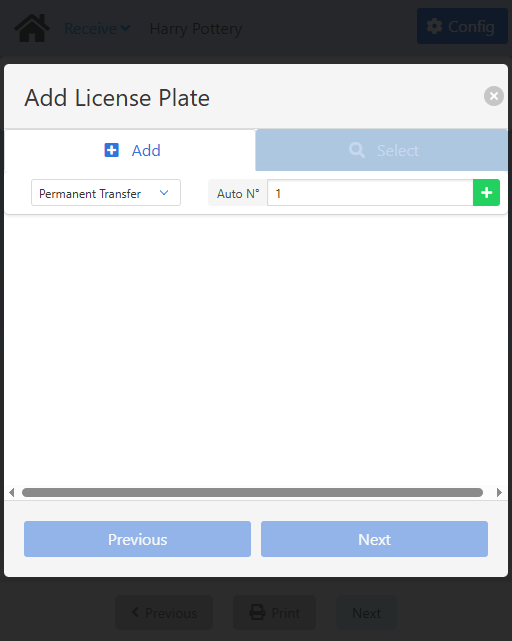
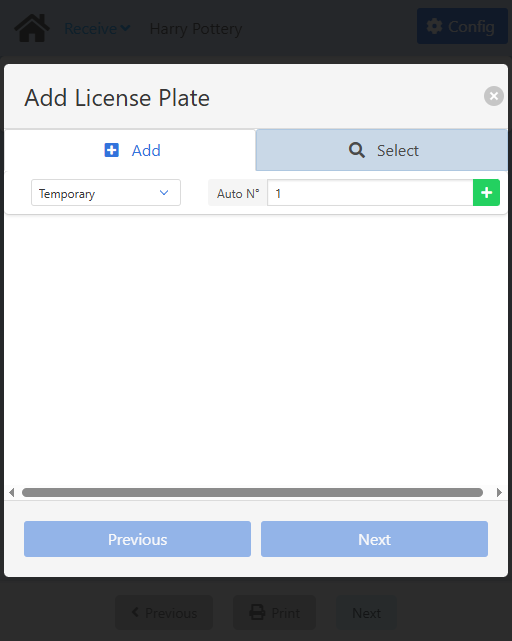
Update Receive with the requested changes on dev

Changed region(s): [[0.5, 0.1872, 1.0, 0.2808], [0.0625, 0.2808, 0.2812, 0.312]]

diff --git a/docs/apps/receive.md b/docs/apps/receive.md
@@ -426,7 +426,7 @@ The first thing you will see is the **Batch** tab, giving you information for th
 
 You can modify the fields on this tab, and that will be reflected once you are done.
 
-Set the **Batch Number**, the **LPN UOM** (number of containers that will be used for handling the items), the **Quantity** and you are good to go.
+Set the **Batch Number**, the **LPN UOM** (number of containers that will be used for handling the items, 1 by default), the **Quantity** and you are good to go.
 
 ![Batches: Extended Information search modal, with the Batch tab selected](./img-receive/batch_extended_information_batch.png)
 
@@ -458,6 +458,10 @@ On this modal you need to set the number of containers that will be used for tra
 
 ![UoM quantity modal](./img-receive/uom_quantity_modal.png)
 
+:::note[INFO]
+The default UoM is 1.
+:::
+
 Once you are done, click **Ok** to generate the grpo and to go to the [Choice: Assign to LPN](./receive.md#choice-assign-to-lpn) screen.
 
 </CustomDetails>
@@ -484,7 +488,7 @@ On this modal you can create LPNs.
 
 ![Add license plate modal](./img-receive/add_lp_add_modal.png)
 
-First you need to select the type of LPN you are going to create: **Permanent Transfer** (PF-XXXX), **Permanent Transport** (PP-XXXX), **Temporary** (T-XXXX) and **External** (E-XXXX).
+First you need to select the type of LPN you are going to create: **Permanent Transfer** (PF-XXXX), **Permanent Transport** (PP-XXXX), **Temporary** (T-XXXX. <u>This is the default</u>) and **External** (E-XXXX).
 
 Next, you need to set the **Auto N°** field to the number of LPNs you want to create. All LPNs are **auto-incremental**.
 
@@ -594,6 +598,10 @@ If you are working with a **batch-managed** item, click the <IIcon icon="pepicon
 
 If you are working with a **serial-managed** item, click the <IIcon icon="pepicons-pop:dots-x" width="17" height="17" /> button on any of the LPNs to go to the [LPN: Assign Serials](./receive.md#lpn-assign-serials) screen.
 
+If you are working with a **none-managed** item and you are using **only one** LPN, as soon as you enter this screen, you will get the printing modal. You can reference that modal at the bottom.
+
+If you are working with a **none-managed** item and you are using **multiple** LPNs, click the <IIcon icon="pepicons-pop:dots-x" width="17" height="17" /> button on any of the LPNs to go to the [LPN: Item Assignment](./receive.md#lpn-item-assignment) screen.
+
 Once you are done, click **Next** at the bottom to save the changes and open the **Label Printing** modal.
 
 <CustomDetails summary="Label Printing Modal">
@@ -675,9 +683,34 @@ At the top you will see the LPN you are working with.
 
 ![LPN: Assign Serials](./img-receive/lpn_assign_serials.png)
 
+<CustomDetails summary="Table Reference">
+  | Column | Description |
+  | --- | --- |
+  | Select | Action button for selecting a serial number. |
+  | Serial | ID of the serial number. |
+  | Item Code | ID of the item. |
+  | Warehouse | Warehouse to where serial number will be entered. |
+</CustomDetails>
+
 You need to assign serial numbers to the LPN. Click the <IIcon icon="line-md:square" width="17" height="17"/> button on the leftmost column to select a serial number. It's only one container with quantity of one for each serial number.
 
 Once you are done, click **Next** to save the changes, assign the serial numbers to the LPN and to go back to the [LPN: Overview](./receive.md#lpn-overview) screen.
+
+### LPN: Item Assignment
+
+On this screen you can see the list of items and quantities that you can work with.
+
+![LPN: Item Assignments screen](./img-receive/lpn_item_assignment_screen.png)
+
+<CustomDetails summary="Table Reference">
+  | Column | Description |
+  | --- | --- |
+  | Item | ID of the item. |
+  | Quantity | Quantity that will be assigned from that item to the LPN selected. |
+  | Warehouse | Warehouse to where the item will be entered. |
+</CustomDetails>
+
+If everything looks right, click **Next** at the bottom to save and assign the item(s) to the LPN and to go back to the [LPN: Overview](./receive.md#lpn-overview) screen.
 
 ### Print: Box Distribution Setup
 
